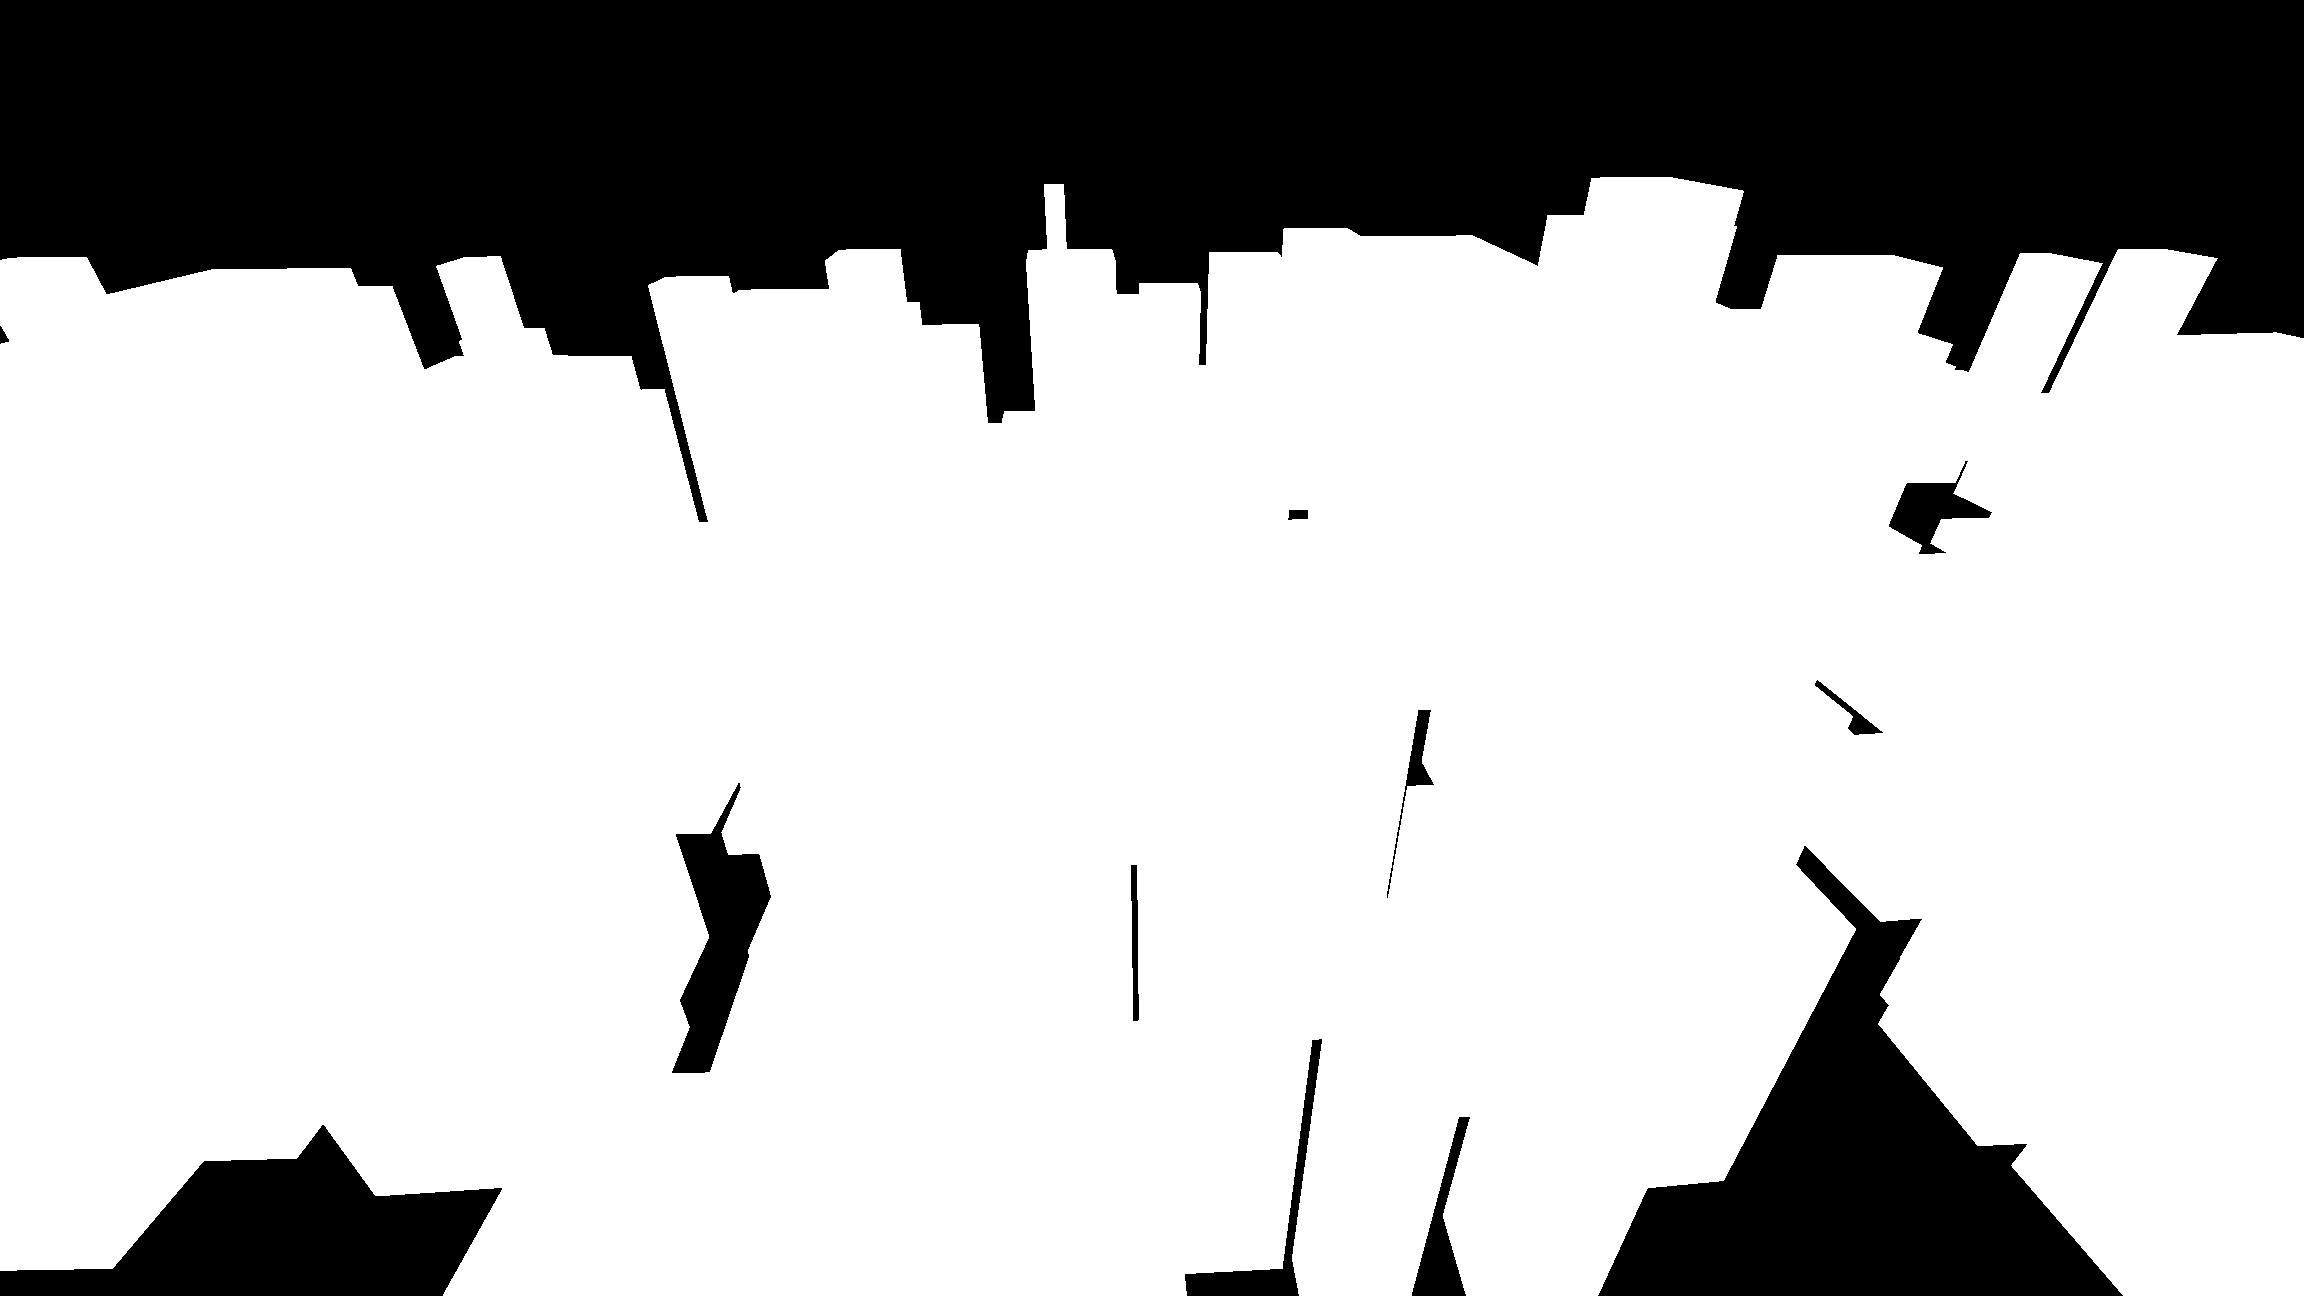
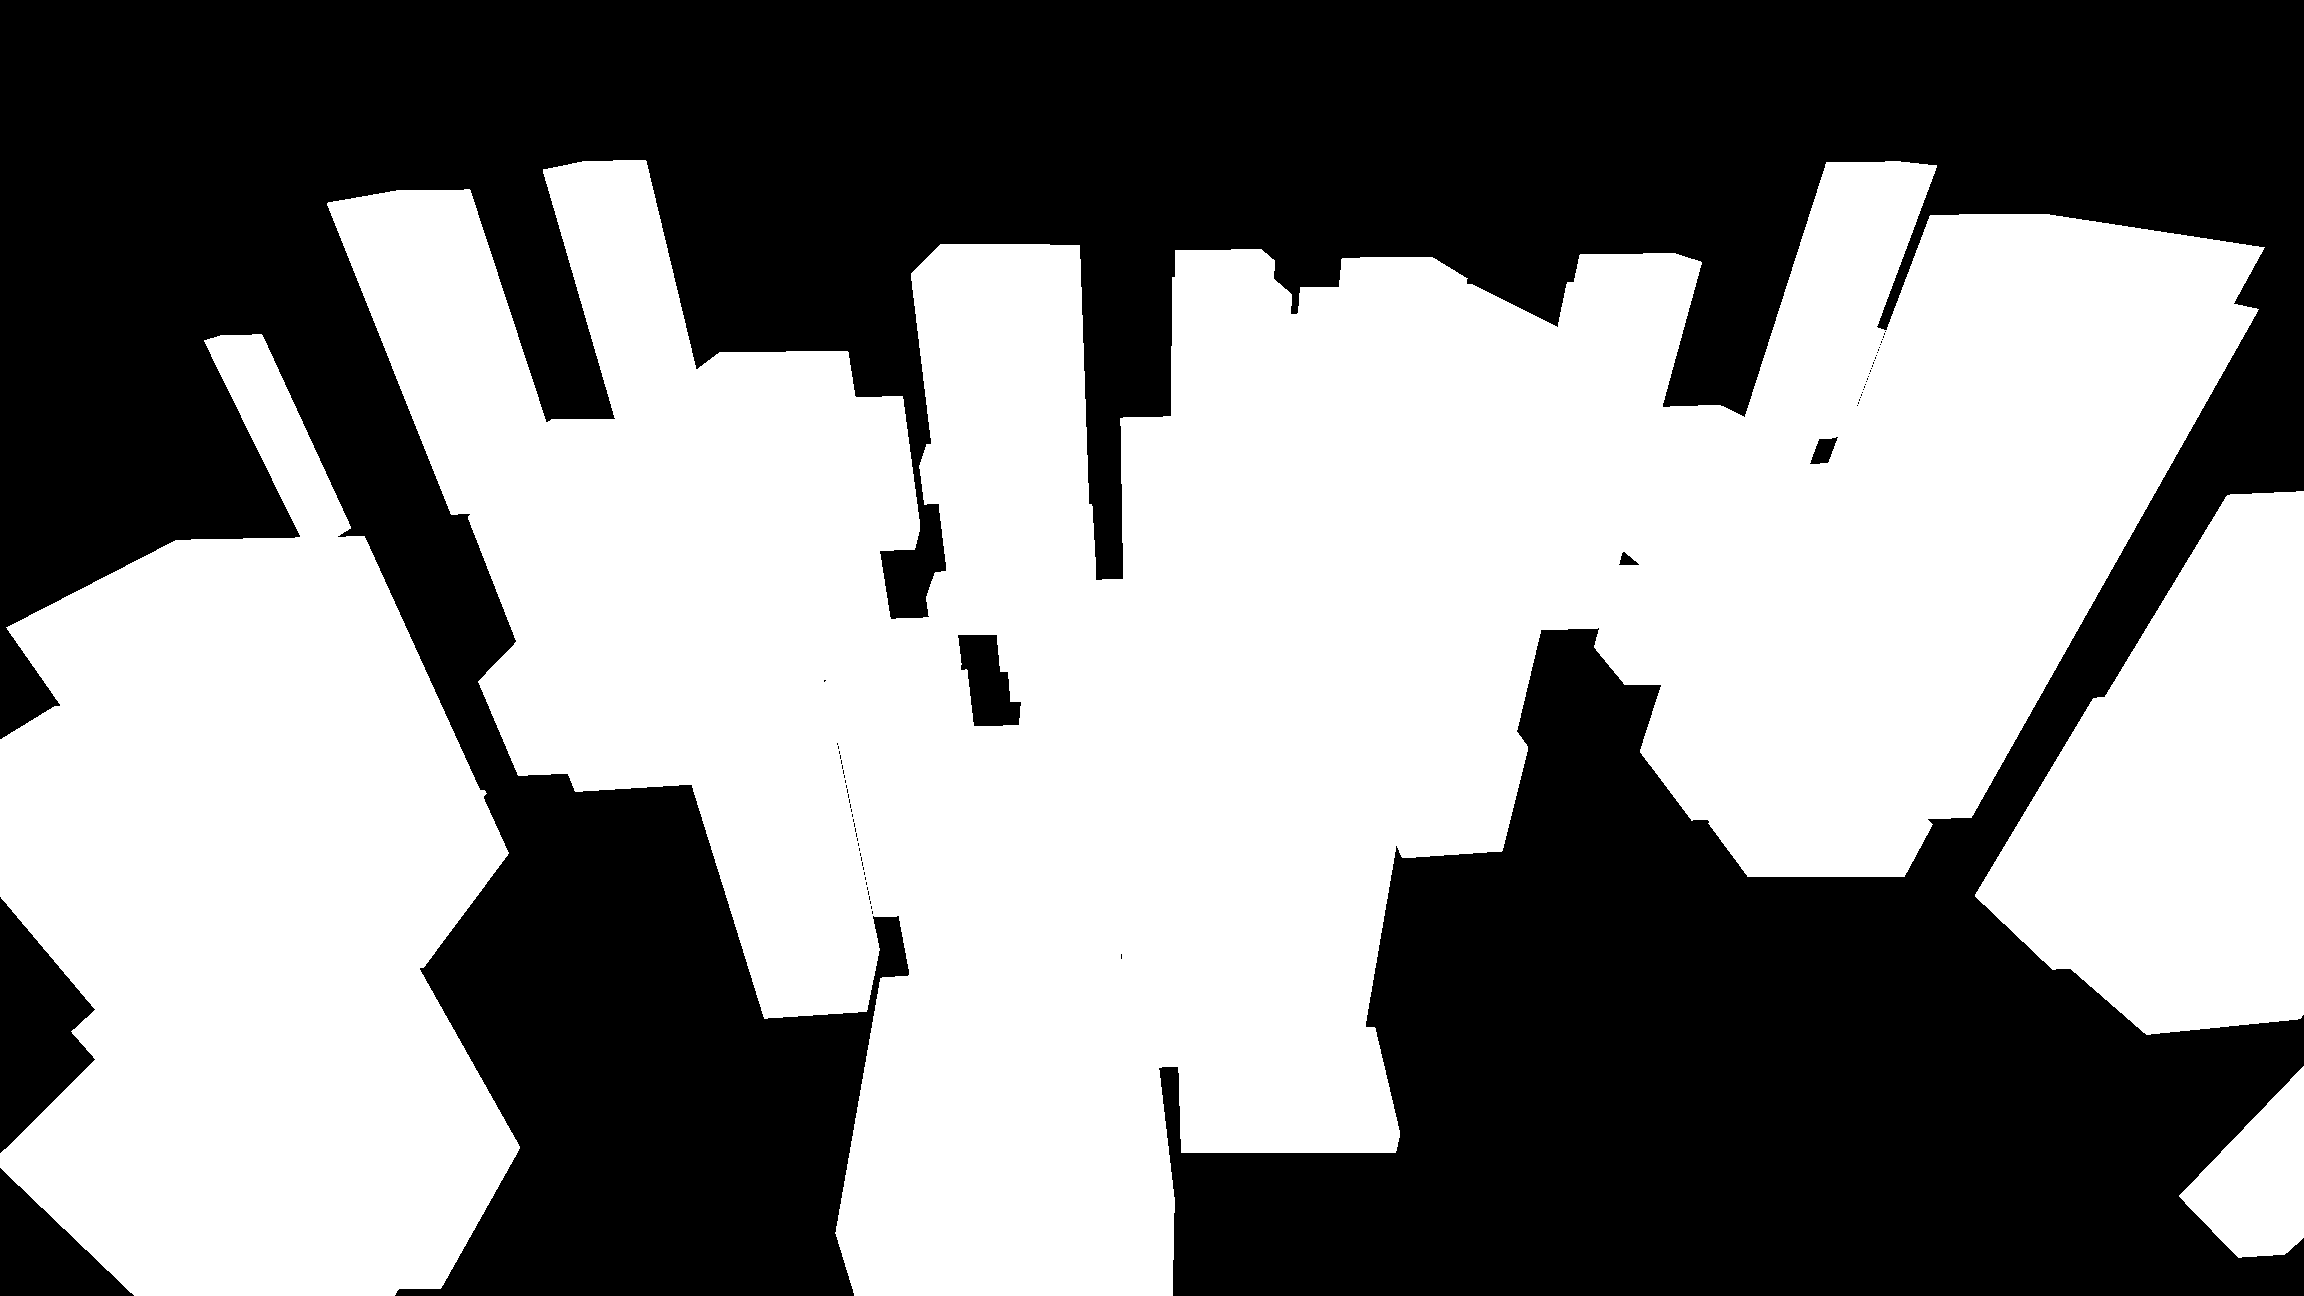
Added cut

diff --git a/tower_demo_d_tree.py b/tower_demo_d_tree.py
@@ -83,7 +83,6 @@ class Tree:
             self.straights = 0
             self.blds = 0
             self.nodes = random.randint(0, nodecount)
-            self.nodes = random.randint(0, 1000)
             for i in range(self.nodes):
                 self.grow()
 
@@ -232,10 +231,6 @@ class Tree:
         candidate = []
         i = 5
         if rng <= diag:
-            '''
-            this_distance = random.uniform(0, diagonal_distance)/unit_mod
-            this_angle = random.uniform(0, 2*math.pi)
-            '''
             while i < len(self.d_tree):
                 if type(self.d_tree[i]) == Node:
                     match self.d_tree[i]:
@@ -246,15 +241,13 @@ class Tree:
                             i += 6
                         case Node.Building:
                             i += 6
+                        case _:
+                            raise Exception("NOT A NODE")
             index = random.choice(candidate)
             self.d_tree[index+2] = random.uniform(0, diagonal_distance)/unit_mod
             self.d_tree[index+3] = random.uniform(0, 2*math.pi)
 
         elif rng <= straight:
-            '''
-            this_distance = random.uniform(-straight_distance, straight_distance)/unit_mod
-            this_direction = random.choice(list(Direction))
-            '''
             while i < len(self.d_tree):
                 if type(self.d_tree[i]) == Node:
                     match self.d_tree[i]:
@@ -265,17 +258,14 @@ class Tree:
                             i += 6
                         case Node.Building:
                             i += 6
+                        case _:
+                            raise Exception("NOT A NODE")
+                    
             index = random.choice(candidate)
             self.d_tree[index+2] = random.uniform(-straight_distance, straight_distance)/unit_mod
             self.d_tree[index+3] = random.choice(list(Direction))
             
         else:
-            '''
-            this_rotation = random.uniform(0, 360)
-            this_width = random.uniform(widthmin, widthmax)
-            this_depth = random.uniform(depthmin, depthmax)*this_width
-            this_height = random.uniform(heightmin/heightmod, heightmax/heightmod)
-            '''
             while i < len(self.d_tree):
                 if type(self.d_tree[i]) == Node:
                     match self.d_tree[i]:
@@ -286,11 +276,168 @@ class Tree:
                         case Node.Building:
                             candidate.append(i)
                             i += 6
+                        case _:
+                            raise Exception("NOT A NODE")
             index = random.choice(candidate)
             self.d_tree[index+2] = random.uniform(0, 360)
             self.d_tree[index+3] = random.uniform(widthmin, widthmax)
             self.d_tree[index+4] = random.uniform(depthmin, depthmax)*self.d_tree[index+3]
             self.d_tree[index+5] = random.uniform(heightmin/heightmod, heightmax/heightmod)
+    
+    def remove_branch(self, index) -> None:
+        if index == 5:
+            return #please don't just completely disappear
+        slices = [(0, index)] #array of indices for each individual slices
+        removal = set() #array of indices to remove
+        removal.add(index)
+        tail = 0
+        removed = 0
+        parent = [0] * len(self.d_tree)
+        while index < len(self.d_tree):
+            if index not in removal:
+                #Not removing, adjust the offsets
+                #Change parent's offset, and change child's offset
+                parent_ind = self.d_tree[index + 1] + index
+                parent_removed = parent[parent_ind]
+                end_offset = self.d_tree[index + 1] + removed - parent_removed
+                parent[index] = removed
+                self.d_tree[index + 1] = end_offset
+                match self.d_tree[index]:
+                    case Node.Diagonal:
+                        match self.d_tree[parent_ind]:
+                            case Node.Diagonal:
+                                self.d_tree[parent_ind+4] = -end_offset
+                            case Node.Center:
+                                self.d_tree[parent_ind+4] = -end_offset
+                        index += 7
+                        slices[len(slices)-1] = (slices[len(slices)-1][0], index)
+                    case Node.Straight:
+                        match self.d_tree[parent_ind]:
+                            case Node.Diagonal:
+                                self.d_tree[parent_ind+5] = -end_offset
+                            case Node.Straight:
+                                self.d_tree[parent_ind+4] = -end_offset
+                        index += 6
+                        slices[len(slices)-1] = (slices[len(slices)-1][0], index)
+                    case Node.Building:
+                        match self.d_tree[parent_ind]:
+                            case Node.Diagonal:
+                                self.d_tree[parent_ind+6] = -end_offset
+                            case Node.Straight:
+                                self.d_tree[parent_ind+5] = -end_offset
+                        index += 6
+                        slices[len(slices)-1] = (slices[len(slices)-1][0], index)
+            else:
+                #remove this item
+                removal.remove(index)
+                self.nodes -= 1
+                parent_ind = self.d_tree[index + 1] + index
+                match self.d_tree[index]:
+                    case Node.Diagonal:
+                        match self.d_tree[parent_ind]:
+                            case Node.Diagonal:
+                                self.d_tree[parent_ind+4] = None
+                            case Node.Center:
+                                self.d_tree[parent_ind+4] = None
+                        self.diags -= 1
+                        self.diag_slot += 1
+                        if self.d_tree[index+4] is not None:
+                            removal.add(self.d_tree[index+4] + index)
+                        if self.d_tree[index+5] is not None:
+                            removal.add(self.d_tree[index+5] + index)
+                        if self.d_tree[index+6] is not None:
+                            removal.add(self.d_tree[index+6] + index)
+                        index += 7
+                        removed += 7
+                        tail = index
+                        slices.append((tail, tail))
+                    case Node.Straight:
+                        match self.d_tree[parent_ind]:
+                            case Node.Diagonal:
+                                self.d_tree[parent_ind+5] = None
+                            case Node.Straight:
+                                self.d_tree[parent_ind+4] = None
+                        self.straights -=1
+                        self.straight_slot += 1
+                        if self.d_tree[index+4] is not None:
+                            removal.add(self.d_tree[index+4] + index)
+                        if self.d_tree[index+5] is not None:
+                            removal.add(self.d_tree[index+5] + index)
+                        index += 6
+                        removed += 6
+                        tail = index
+                        slices.append((tail, tail))
+                    case Node.Building:
+                        match self.d_tree[parent_ind]:
+                            case Node.Diagonal:
+                                self.d_tree[parent_ind+6] = None
+                            case Node.Straight:
+                                self.d_tree[parent_ind+5] = None
+                        self.blds -=1
+                        self.bld_slot += 1
+                        index += 6
+                        removed += 6
+                        tail = index
+                        slices.append((tail, tail))
+        result = []
+        for slice in slices:
+            result += self.d_tree[slice[0]: slice[1]]
+        self.d_tree = result
+
+    #PAIN
+    def cut(self) -> None:
+        prob_d = (1-p_diagonal)*self.diags
+        prob_s = (1-p_straight)*self.straights
+        prob_b = (1-p_building)*self.blds
+        totalprob = prob_d + prob_s + prob_b
+        num_b = prob_b/totalprob
+        num_s = prob_s/totalprob + num_b
+        num_d = prob_d/totalprob + num_s
+        choice = random.uniform(0, 1)
+        candidates = []
+        index = 0
+        #choose
+        if choice < num_b:
+            while index < len(self.d_tree):
+                if self.d_tree[index] == Node.Center:
+                    index += 5
+                elif self.d_tree[index] == Node.Building:
+                    candidates.append(index)
+                    index += 6
+                elif self.d_tree[index] == Node.Diagonal:
+                    index += 7
+                elif self.d_tree[index] == Node.Straight:
+                    index += 6
+            pick = random.choice(candidates)
+            self.remove_branch(pick)
+
+        elif choice < num_s:
+            while index < len(self.d_tree):
+                if self.d_tree[index] == Node.Center:
+                    index += 5
+                elif self.d_tree[index] == Node.Building:
+                    index += 6
+                elif self.d_tree[index] == Node.Diagonal:
+                    index += 7
+                elif self.d_tree[index] == Node.Straight:
+                    candidates.append(index)
+                    index += 6
+            pick = random.choice(candidates)
+            self.remove_branch(pick)
+
+        elif choice < num_d:
+            while index < len(self.d_tree):
+                if self.d_tree[index] == Node.Center:
+                    index += 5
+                elif self.d_tree[index] == Node.Building:
+                    index += 6
+                elif self.d_tree[index] == Node.Diagonal:
+                    candidates.append(index)
+                    index += 7
+                elif self.d_tree[index] == Node.Straight:
+                    index += 6
+            pick = random.choice(candidates)
+            self.remove_branch(pick)
 
     #copying, useful for child
     def copy(self) -> None:
@@ -301,11 +448,15 @@ class Tree:
                     self.nodes)
     
 test_tree = Tree(None, None, None, None, None, None, None, None)
-print(f"NODES: {test_tree.nodes}")
+test_tree.cut()
 #testing
 alters = 30
 for i in range(alters):
     test_tree.alter()
+grow = 10
+for i in range(grow):
+    test_tree.grow()
+print(f"NODES: {test_tree.nodes}")
 #class for tower generation
 class Tower:
     def __init__(self, height, width, depth, x, z, rotation) -> None:
@@ -536,8 +687,6 @@ def main():
         im2 = np.divide(imagearr, 255/2)
         im2 = np.add(im2, -1)
         score = np.sum(np.multiply(im, im2))
-        print(score)
-        print(score/bestscore)
 
         cv2.imwrite(r"testresult.png", imagearr)
 
